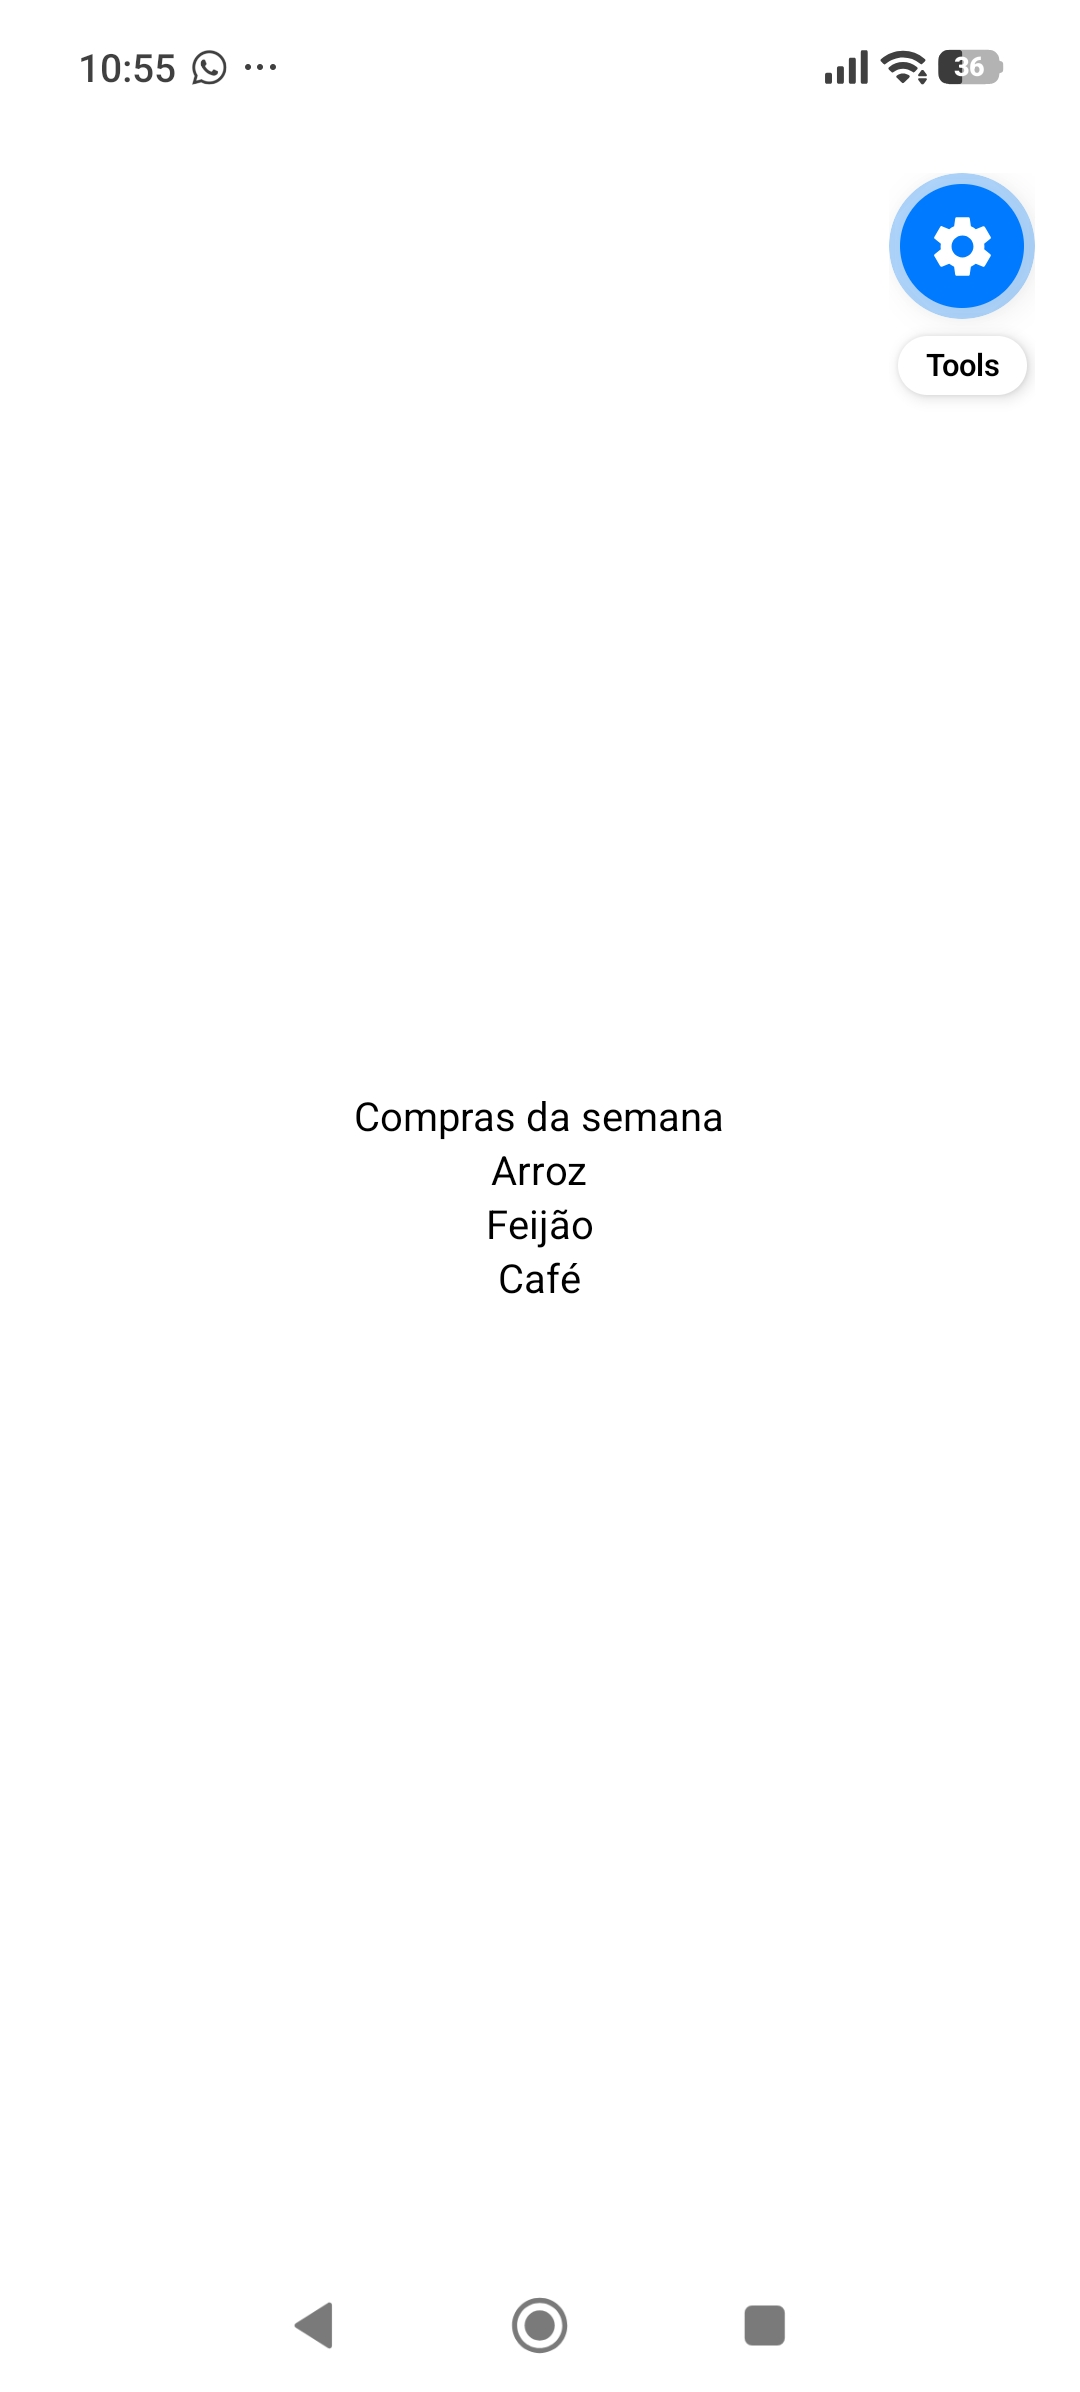
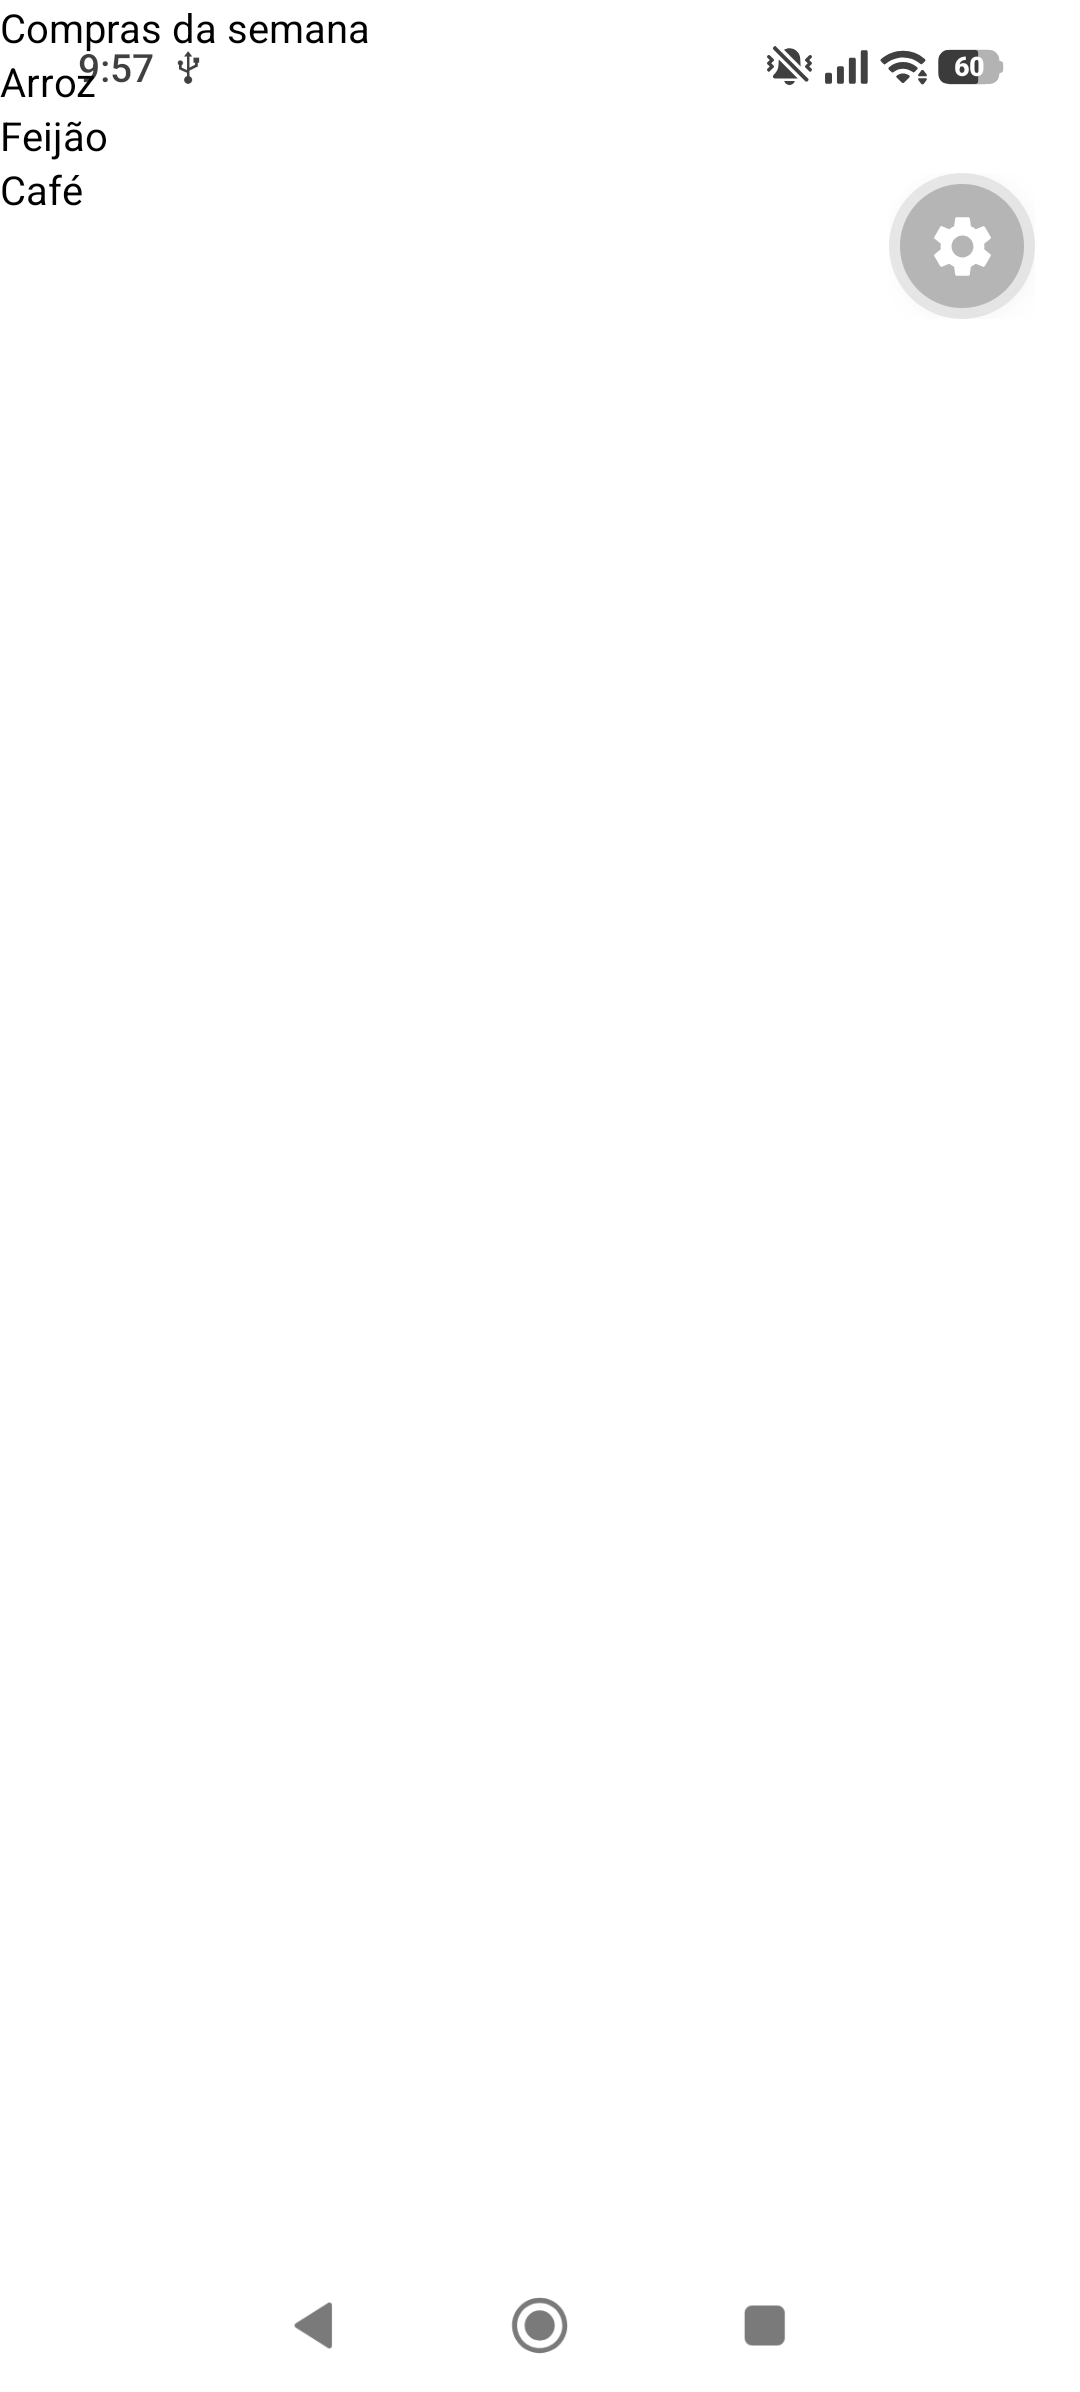
correção

diff --git a/App.tsx b/App.tsx
@@ -3,7 +3,7 @@ import { StyleSheet, Text, View } from 'react-native';
 
 export default function App() {
   return (
-    <View style={styles.container}>
+    <View>
       <Text>Compras da semana</Text>
       <Text>Arroz</Text>
       <Text>Feijão</Text>
@@ -13,11 +13,3 @@ export default function App() {
   );
 }
 
-const styles = StyleSheet.create({
-  container: {
-    flex: 1,
-    backgroundColor: '#fff',
-    alignItems: 'center',
-    justifyContent: 'center',
-  },
-});
